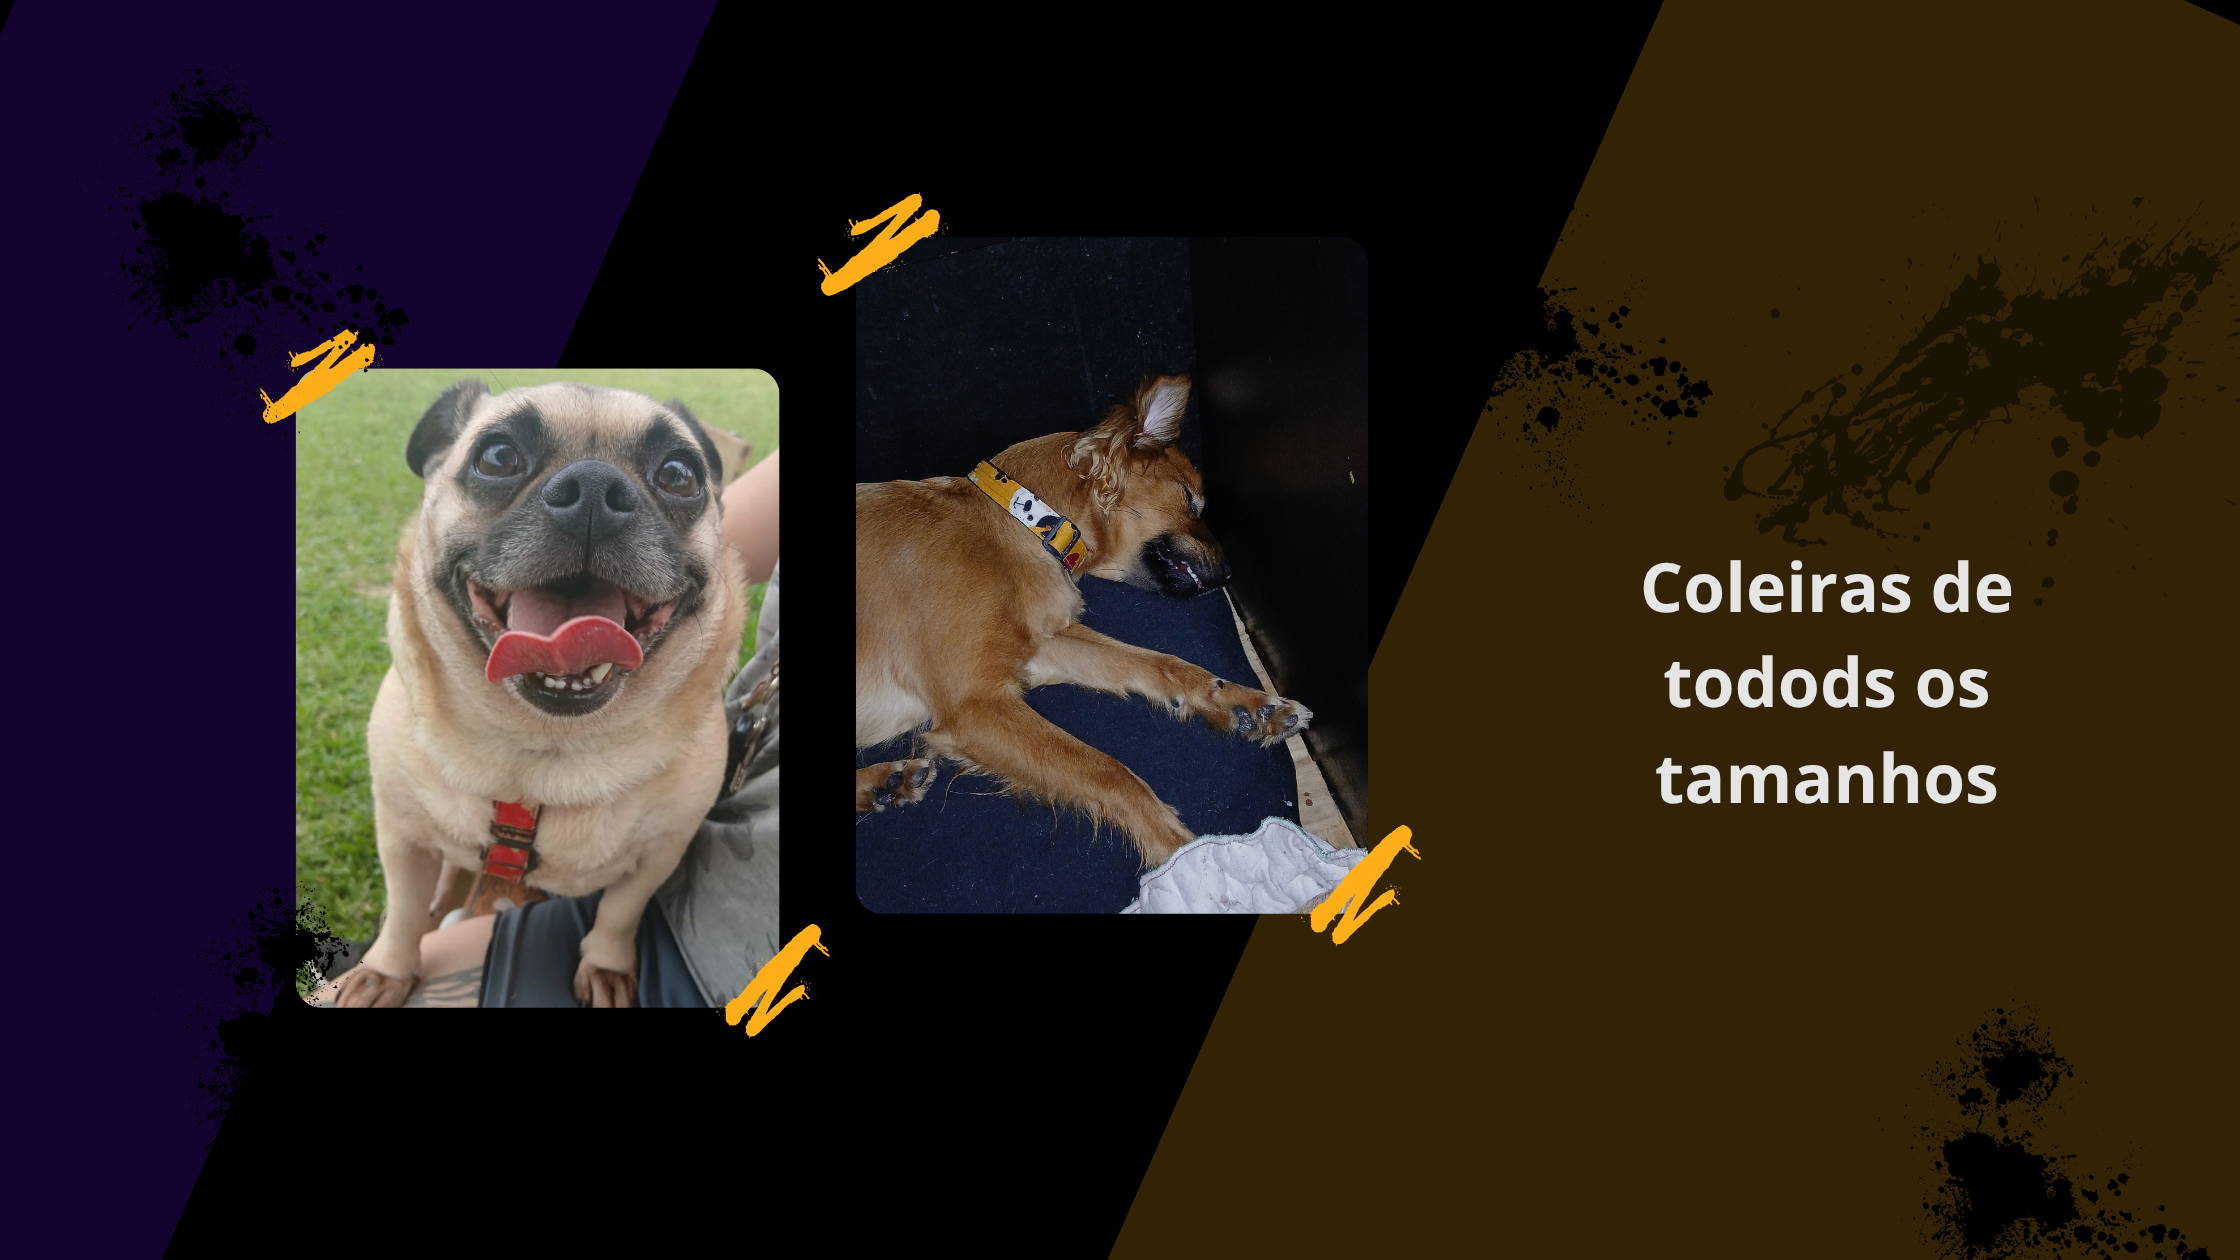
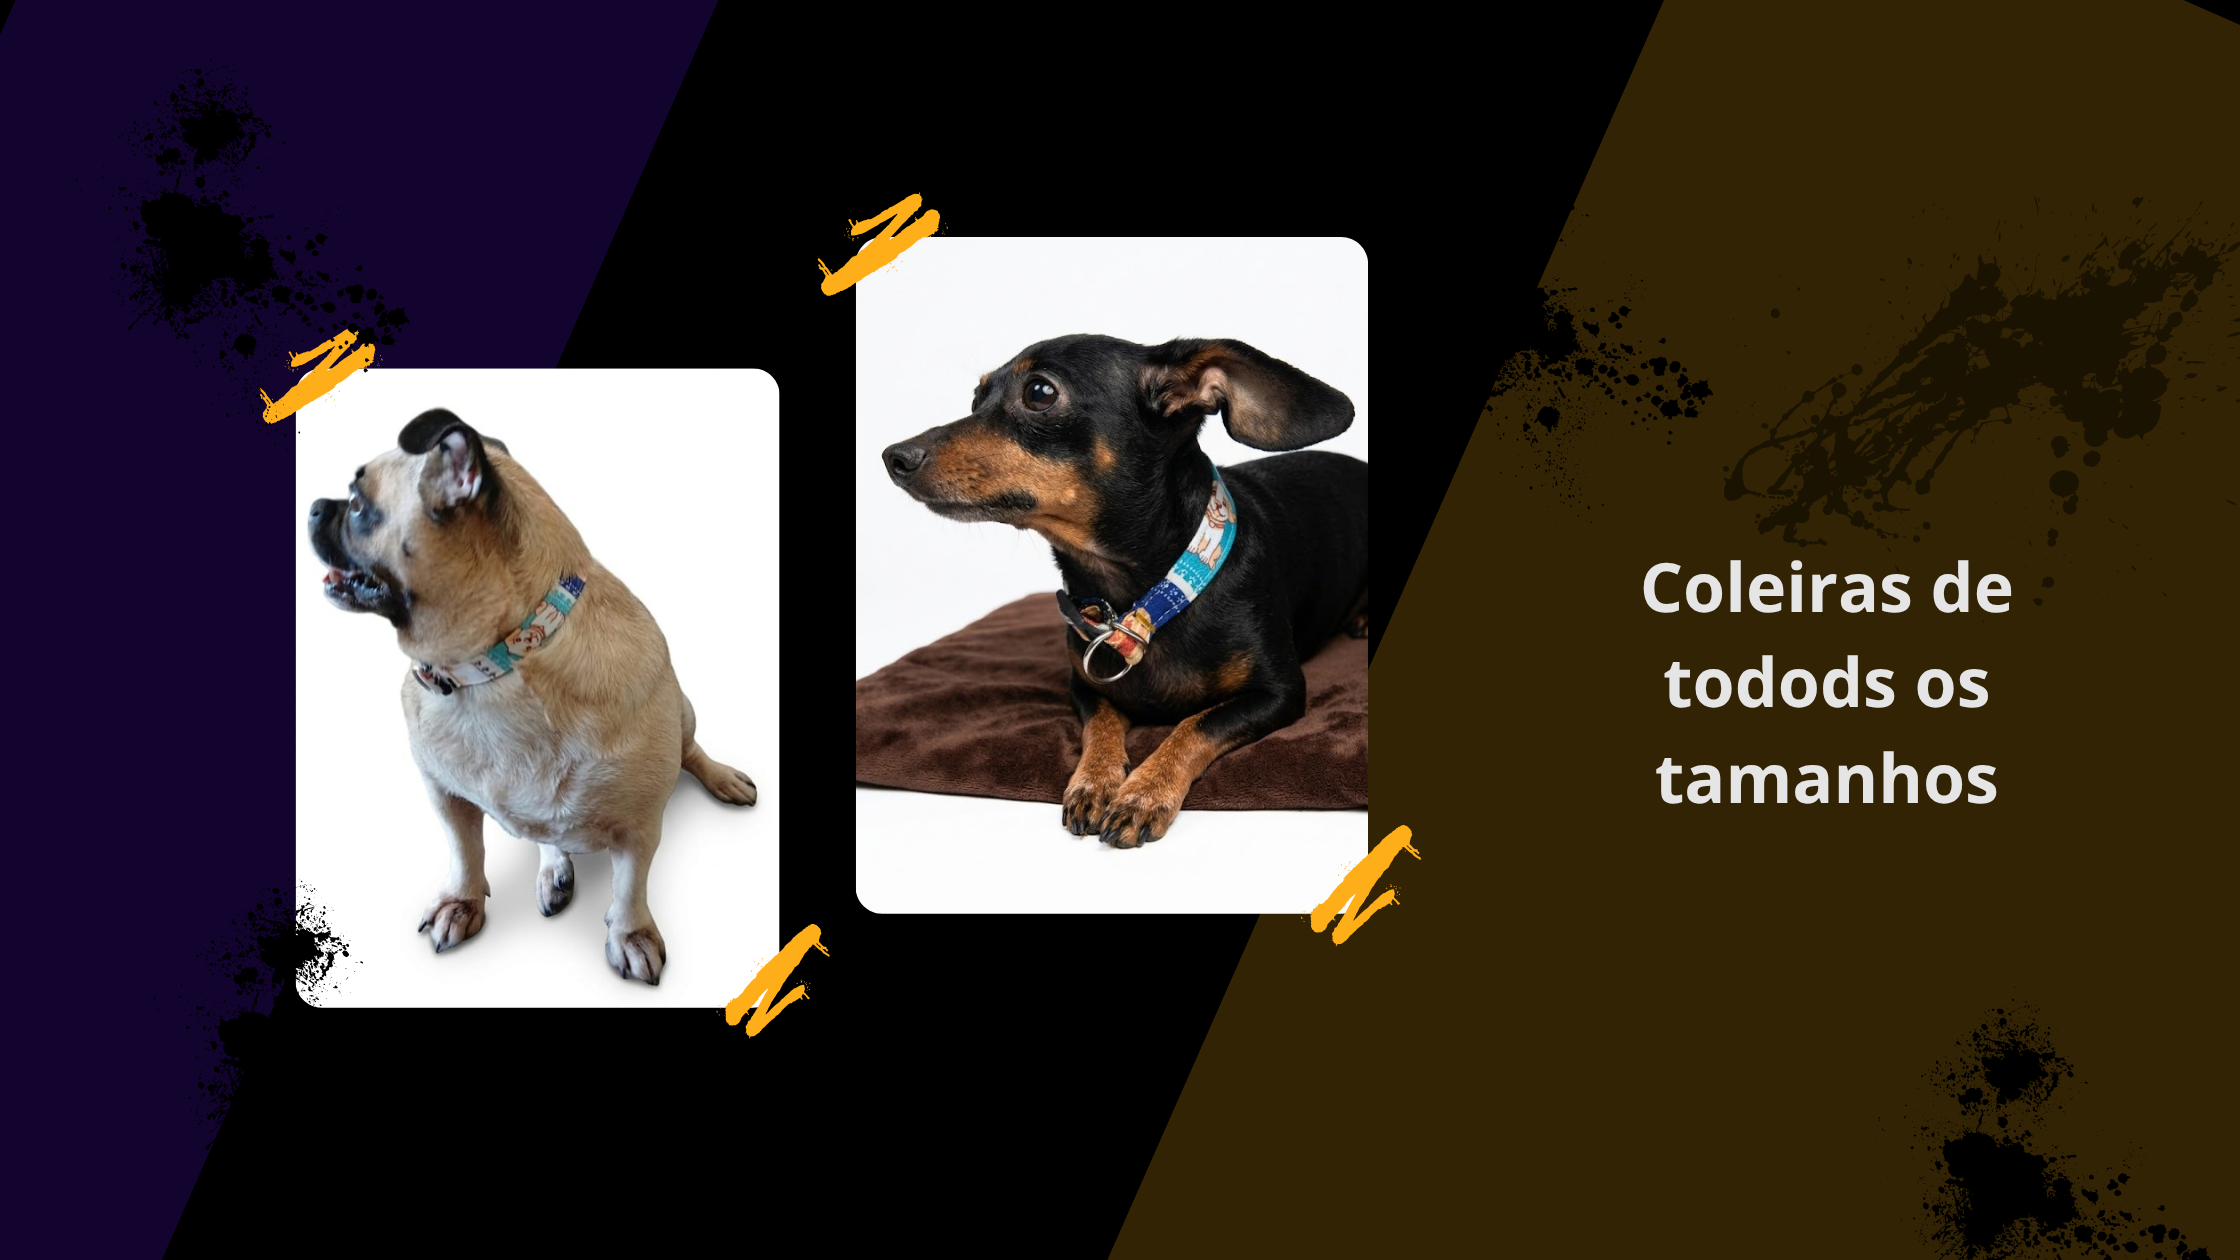
atualizando card produtos

Changed region(s): [[0.125, 0.1857, 0.625, 0.8048]]

diff --git a/ImperiusStore/src/components/Produtos/ProdutosCard.vue b/ImperiusStore/src/components/Produtos/ProdutosCard.vue
@@ -1,0 +1,164 @@
+<template>
+  <div class="card-produto" @click="abrirProduto(produto.id)">
+    <span class="badge-artesanal">Artesanal</span>
+
+    <div class="container-foto">
+      <img :src="imagemExibida" :alt="produto.nome" loading="lazy">
+    </div>
+
+    <div class="conteudo">
+      <h4 class="titulo-produto">{{ produto.nome }}</h4>
+      
+      <div class="precos">
+        <span class="moeda">R$</span>
+        <span class="valor">{{ produto.preco.toFixed(2) }}</span>
+      </div>
+
+      <div class="footer-card">
+        <div class="opcoes-cores">
+          <button 
+            v-for="(item, index) in produto.variacoes" 
+            :key="index"
+            class="circulo-cor"
+            :title="item.cor"
+            :style="{ backgroundColor: item.hex }"
+            :class="{ selecionado: indiceAtivo === index }"
+            @click.stop="indiceAtivo = index"
+            aria-label="Selecionar cor"
+          ></button>
+        </div>
+        <span class="vendas-count">Novo</span>
+      </div>
+    </div>
+  </div>
+</template>
+
+<script setup>
+import { ref, computed } from 'vue';
+
+const indiceAtivo = ref(0);
+
+// Dados do produto (idealmente viriam via Props no futuro)
+const produto = {
+  id: '001',
+  nome: "Guia de Corda Náutica Premium",
+  preco: 120.00,
+  variacoes: [
+    { cor: 'Vermelho', hex: '#FF0000', url: new URL('../../assets/img/coleira-vermelha.png', import.meta.url).href },
+    { cor: 'Amarelo', hex: '#FFD700', url: new URL('../../assets/img/coleira-amarela.png', import.meta.url).href },
+    { cor: 'Preto camuflado', hex: '#333333', url: new URL('../../assets/img/coleira-camufladaPreta.png', import.meta.url).href }
+  ]
+};
+
+const imagemExibida = computed(() => produto.variacoes[indiceAtivo.value].url);
+
+const abrirProduto = (id) => {
+  window.open(`/produto/${id}`, '_blank');
+};
+</script>
+
+<style scoped>
+
+.card-produto {
+  position: relative;
+  width: 240px;
+  background: black;
+  border-radius: 12px;
+  border: 1px solid blue;
+  overflow: hidden;
+  transition: all 0.3s cubic-bezier(0.25, 0.8, 0.25, 1);
+  cursor: pointer;
+  display: flex;
+  flex-direction: column;
+}
+
+.card-produto:hover {
+  transform: translateY(-8px);
+  box-shadow: 0 10px 20px rgba(0,0,0,0.08);
+  border-color: var(--cor-primaria);
+}
+
+.badge-artesanal {
+  position: absolute;
+  top: 10px;
+  left: 10px;
+  background: rgba(255, 255, 255, 0.9);
+  padding: 2px 8px;
+  border-radius: 4px;
+  font-size: 0.7rem;
+  font-weight: bold;
+  color: #555;
+  z-index: 1;
+  text-transform: uppercase;
+}
+
+.container-foto {
+  width: 100%;
+  height: 240px;
+  background-color: red;
+}
+
+.container-foto img {
+  width: 100%;
+  height: 100%;
+  object-fit: cover;
+}
+
+.conteudo {
+  padding: 12px;
+}
+
+.titulo-produto {
+  font-size: 0.95rem;
+  color: var(--cor-texto);
+  margin: 0 0 8px 0;
+  font-weight: 500;
+  line-height: 1.2;
+  /* Limita a 2 linhas para não quebrar o layout */
+  display: -webkit-box;
+  -webkit-line-clamp: 2;
+  -webkit-box-orient: vertical;
+  overflow: hidden;
+}
+
+.precos {
+  color: var(--cor-primaria);
+  font-weight: 600;
+  margin-bottom: 12px;
+}
+
+.moeda { font-size: 0.8rem; margin-right: 2px; }
+.valor { font-size: 1.2rem; }
+
+.footer-card {
+  display: flex;
+  justify-content: space-between;
+  align-items: center;
+  border-top: 1px solid #f5f5f5;
+  padding-top: 10px;
+}
+
+.opcoes-cores {
+  display: flex;
+  gap: 6px;
+}
+
+.circulo-cor {
+  width: 18px;
+  height: 18px;
+  border-radius: 50%;
+  border: 1px solid red;
+  padding: 0;
+  cursor: pointer;
+  transition: 0.2s;
+}
+
+.circulo-cor.selecionado {
+  box-shadow: 0 0 0 2px blue, 0 0 0 4px var(--cor-primaria);
+}
+
+.vendas-count {
+  font-size: 0.75rem;
+  color: black;
+}
+</style>

diff --git a/ImperiusStore/src/views/Home.vue b/ImperiusStore/src/views/Home.vue
@@ -3,17 +3,29 @@
         <Banner/>
     </section>
     
-    <section>
-        <Produtos/>
+    <section >
+        <CarrosselProdutos/>
+    </section>
+
+    <section class="produtos-destaque">
+        <ProdutosCard/>
     </section>
 </template>
 
 <script>
 import Banner from '../components/Home/Banner.vue'
-import Produtos from '../components/Home/Produtos.vue';
+import CarrosselProdutos from '../components/Home/CarrosselProdutos.vue';
+import Produtos from '../components/Home/CarrosselProdutos.vue';
+import ProdutosCard from '../components/Produtos/ProdutosCard.vue';
 
 export default{
     components: {
-        Banner, Produtos
+        Banner, CarrosselProdutos , ProdutosCard
 }}
 </script>
+
+<style>
+.produtos-destaque{
+    margin: 2rem;
+}
+</style>

diff --git a/ImperiusStore/vite.config.js b/ImperiusStore/vite.config.js
@@ -1,8 +1,15 @@
 import { defineConfig } from 'vite'
+import path from 'path'
 import vue from '@vitejs/plugin-vue'
 
 // https://vite.dev/config/
 export default defineConfig({
   plugins: [vue()],
-  base: 'Imperius-Store'
+  base: 'Imperius-Store',
+  resolve: {
+    alias: {
+      // Isso mapeia o @ para a pasta src
+      '@': path.resolve(__dirname, './src'),
+    }
+  }
 })

diff --git a/ImperiusStore/src/router/index.js b/ImperiusStore/src/router/index.js
@@ -1,17 +1,11 @@
 import { createRouter, createWebHashHistory } from 'vue-router'
 import Home from '../views/Home.vue'
-import Produtos from '../components/Home/Produtos.vue'
 
 const routes = [
     {
         path: '/',
         name: 'Home',
         component: Home
-    },
-    {
-        path: '/',
-        name: 'Produtos',
-        component: Produtos
     }
 ]
 

diff --git a/ImperiusStore/src/components/Home/CarrosselProdutos.vue b/ImperiusStore/src/components/Home/CarrosselProdutos.vue
@@ -48,7 +48,7 @@ const slides = ref([
   },
     {
         id: 1, image: new URL('../../assets/img/carrosselProdutos_3.png', import.meta.url).href,
-        title: 'Guias especiais para seu pet'
+        title: 'Coleiras '
   },
   
 ]);
